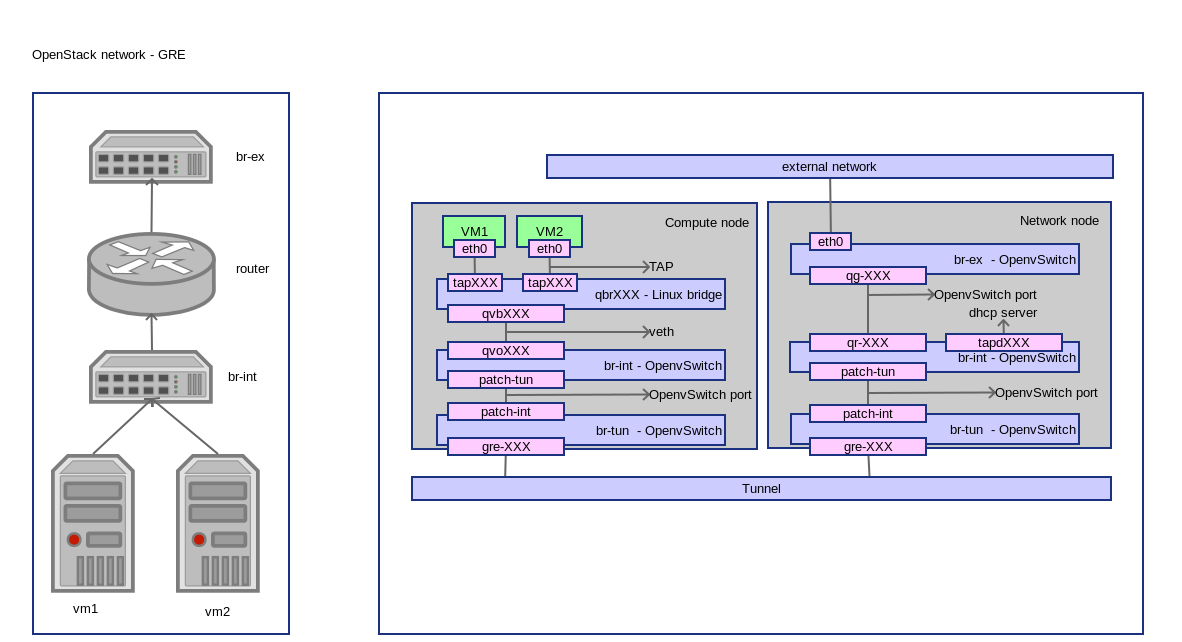
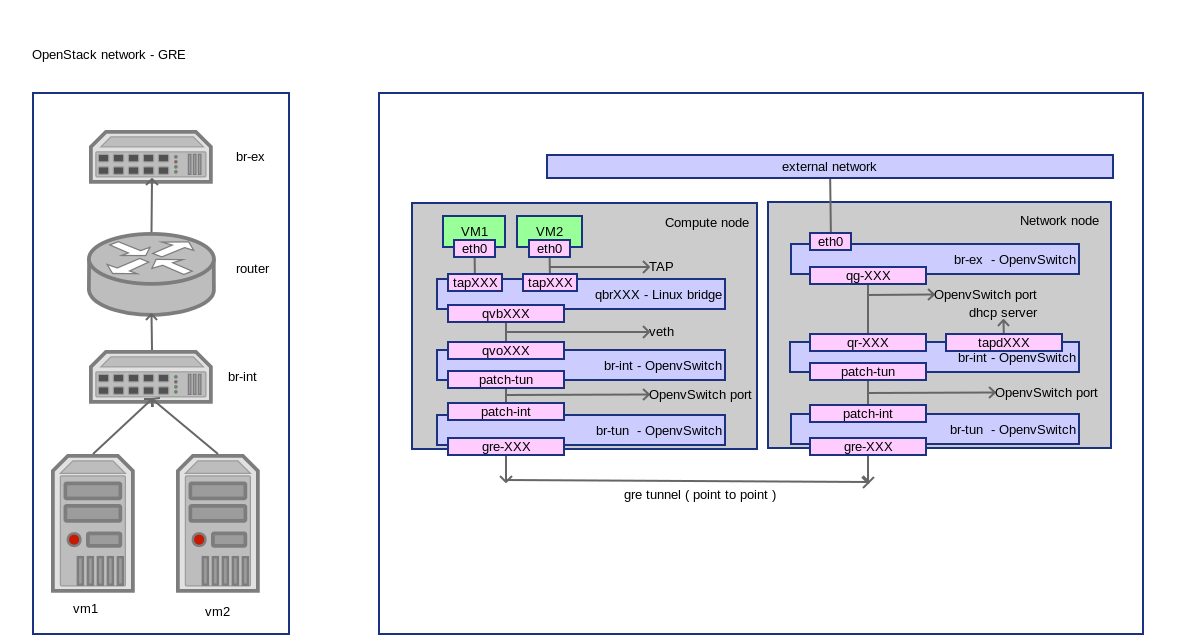
Fix and add more description

Changed region(s): [[0.335, 0.7165, 0.9442, 0.7788]]

diff --git a/network/gre/gre.rst b/network/gre/gre.rst
@@ -11,7 +11,7 @@ OpenStack GRE 网络配置详解
 
 .. figure:: gre.png
 
-Configure GRE network
+Configure network
 ----------------------
 ::
 
@@ -44,12 +44,15 @@ Create VM
 
     sh tools/create_vm.sh cirros01 cirros-x86_64 demo-net
 
+connect to VM through vnc::
+
     nova get-vnc-console cirros01
 
 
 Check network
 --------------
-On compute node:
+compute node
+~~~~~~~~~~~~~~
 
 ovs-vsctl show::
 
@@ -79,6 +82,7 @@ ovs-vsctl show::
                     options: {in_key=flow, local_ip="192.168.1.250", out_key=flow, remote_ip="192.168.1.251"}
         ovs_version: "2.0.1"
 
++ br-tun 为 GRE Tunnel 桥
 
 ``ip link``::
 
@@ -121,7 +125,7 @@ ovs-vsctl show::
 
       <target dev='tap615add81-37'/>
 
-+ VM 使用接口 tap615add81-37
++ VM 使用接口 tap615add81-378108a40e-292b-4ed0-80c1-23fc08aacd3d
 + tap615add81-37 和 qvb615add81-37 在桥 qbr615add81-37 里
 
 ``ethtool -S qvb615add81-37``::
@@ -144,7 +148,8 @@ ovs-vsctl show::
 + qvo615add81-37 通过 patch-tun, patch-int 到达 br-tun
 + br-tun 通过 gre-096f39fb, gre-096f39fa 到达网络节点的 br-tun
 
-On network node:
+network node
+~~~~~~~~~~~~~
 
 ``ovs-vsctl show``::
 
@@ -187,6 +192,11 @@ On network node:
             Port "eth0"
                 Interface "eth0"
         ovs_version: "2.0.1"
+
+``ip netns``::
+
+    qdhcp-86fbb659-f59b-4a48-86e8-efdf74491678
+    qrouter-59d2cc28-b4ab-4c54-9208-7fb899445278
 
 ``ip netns exec qdhcp-86fbb659-f59b-4a48-86e8-efdf74491678 ip link``::
 
@@ -275,3 +285,40 @@ On network node:
     root     27510     1  0 11:32 ?        00:00:00 /usr/bin/python /usr/bin/neutron-ns-metadata-proxy --pid_file=/var/lib/neutron/external/pids/59d2cc28-b4ab-4c54-9208-7fb899445278.pid --metadata_proxy_socket=/var/lib/neutron/metadata_proxy --router_id=59d2cc28-b4ab-4c54-9208-7fb899445278 --state_path=/var/lib/neutron --metadata_port=9697 --verbose --log-file=neutron-ns-metadata-proxy-59d2cc28-b4ab-4c54-9208-7fb899445278.log --log-dir=/var/log/neutron
 
 + 9697 端口是 Neutron Metadata agent
+
+OpenFlow
+~~~~~~~~~
+``ovs-ofctl dump-flows br-int``::
+
+    NXST_FLOW reply (xid=0x4):
+     cookie=0x0, duration=1459.955s, table=0, n_packets=258, n_bytes=25979, idle_age=976, priority=1 actions=NORMAL
+
+
+``ovs-ofctl dump-flows br-tun``::
+
+    NXST_FLOW reply (xid=0x4):
+     cookie=0x0, duration=1504.437s, table=0, n_packets=173, n_bytes=16646, idle_age=1021, priority=1,in_port=1 actions=resubmit(,1)
+     cookie=0x0, duration=1497.02s, table=0, n_packets=90, n_bytes=9723, idle_age=1033, priority=1,in_port=2 actions=resubmit(,2)
+     cookie=0x0, duration=1504.391s, table=0, n_packets=6, n_bytes=468, idle_age=1495, priority=0 actions=drop
+     cookie=0x0, duration=1504.35s, table=1, n_packets=151, n_bytes=14452, idle_age=1021, priority=1,dl_dst=00:00:00:00:00:00/01:00:00:00:00:00 actions=resubmit(,20)
+     cookie=0x0, duration=1504.308s, table=1, n_packets=22, n_bytes=2194, idle_age=1324, priority=1,dl_dst=01:00:00:00:00:00/01:00:00:00:00:00 actions=resubmit(,21)
+     cookie=0x0, duration=1342.984s, table=2, n_packets=85, n_bytes=9333, idle_age=1033, priority=1,tun_id=0x2 actions=mod_vlan_vid:1,resubmit(,10)
+     cookie=0x0, duration=1504.258s, table=2, n_packets=5, n_bytes=390, idle_age=1343, priority=0 actions=drop
+     cookie=0x0, duration=1504.209s, table=3, n_packets=0, n_bytes=0, idle_age=1504, priority=0 actions=drop
+     cookie=0x0, duration=1504.158s, table=10, n_packets=85, n_bytes=9333, idle_age=1033, priority=1 actions=learn(table=20,hard_timeout=300,priority=1,NXM_OF_VLAN_TCI[0..11],NXM_OF_ETH_DST[]=NXM_OF_ETH_SRC[],load:0->NXM_OF_VLAN_TCI[],load:NXM_NX_TUN_ID[]->NXM_NX_TUN_ID[],output:NXM_OF_IN_PORT[]),output:1
+     cookie=0x0, duration=1504.096s, table=20, n_packets=0, n_bytes=0, idle_age=1504, priority=0 actions=resubmit(,21)
+     cookie=0x0, duration=1343.039s, table=21, n_packets=18, n_bytes=1878, idle_age=1324, dl_vlan=1 actions=strip_vlan,set_tunnel:0x2,output:2
+     cookie=0x0, duration=1504.029s, table=21, n_packets=4, n_bytes=316, idle_age=1343, priority=0 actions=drop
+
+
++ 更改 tunnel 2 的包为 vlan1
++ vlan1 的包去除 vlan 标记，并设置 tunnel 标记为 2
++ gre 上的数据是普通的 IP 包，可路由到任意网络
+
+``ovs-ofctl dump-flows br-ex``::
+
+    NXST_FLOW reply (xid=0x4):
+     cookie=0x0, duration=1569.861s, table=0, n_packets=85, n_bytes=6858, idle_age=1092, priority=0 actions=NORMAL
+
+
+
